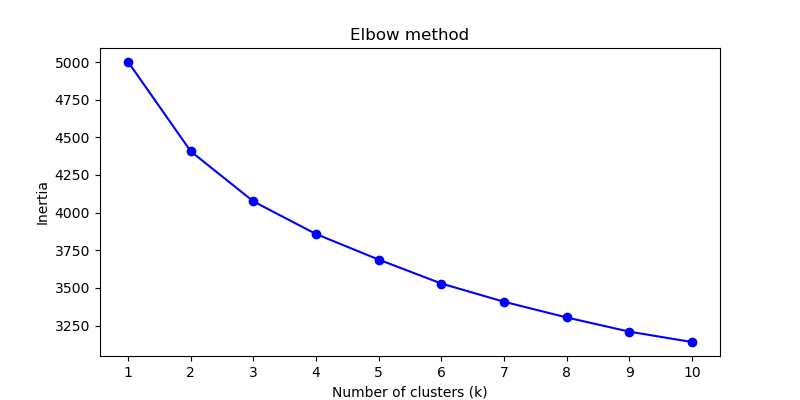
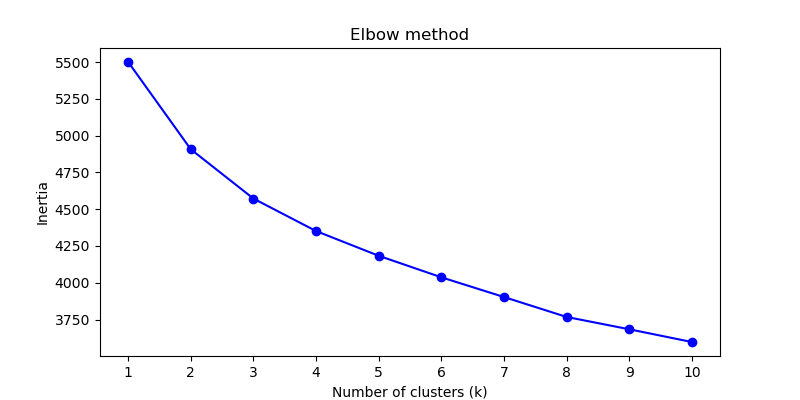
code complete with images

diff --git a/Final Project/INST414_FinalReport.py b/Final Project/INST414_FinalReport.py
@@ -40,7 +40,7 @@ plt.xlabel("Number of Hotels")
 plt.ylabel("Average Hotel Occupancy Rate (%)")
 plt.title("Hotel Occupancy vs Number of Hotels by Country")
 
-# ChatGPT Assistance: add country labels
+#adding country labels to the scatter plot
 for i, country in enumerate(country_hotels.index):
     plt.text(country_hotels["Number_of_Hotels"][i], 
              country_hotels["Hotel_Occupancy_Rate"][i], 
@@ -110,7 +110,7 @@ df_encoded = pd.get_dummies(df, columns=categorical_cols, drop_first=True)
 
 std_scaler  = StandardScaler()
 
-X_scaled = std_scaler.fit_transform(df_encoded)
+X_scaled = std_scaler.fit_transform(df_encoded[numerical_cols])
 
 X = X_scaled
 